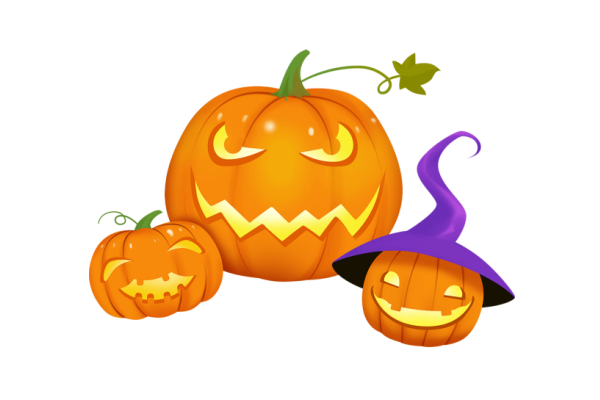
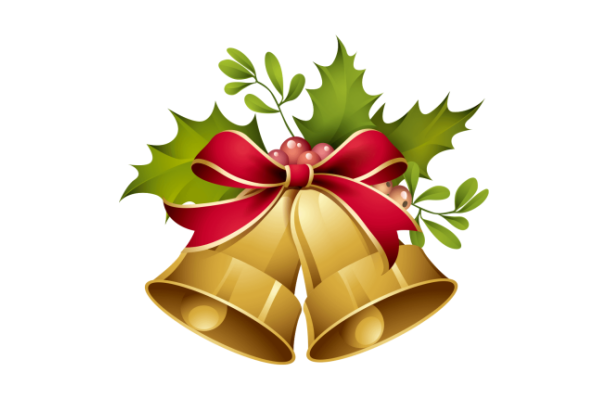
修改12月活動圖

diff --git a/src/views/Loby.vue b/src/views/Loby.vue
@@ -58,6 +58,7 @@
     <!-- 幸運轉盤 -->
 
     <LuckyWheel
+      class="test_wheel"
       v-if="this.fullWidth >= 600"
       ref="myLucky"
       width="700px"
@@ -173,11 +174,11 @@ import ticketImg from '../assets/backGround/ticket3.png';
 import treasureImg from '../assets/backGround/treasure.png';
 import airplane from '../assets/prizes/airplane.png';
 import cryFace from '../assets/prizes/cry.png';
-import prizeOne from '../assets/prizes/500.png';
-import prizeTwo from '../assets/prizes/1000.png';
-import prizeThree from '../assets/prizes/3000.png';
-import prizeFour from '../assets/prizes/10000.png';
-import prizeFive from '../assets/prizes/20000.png';
+import prizeOne from '../assets/prizes/300.png';
+import prizeTwo from '../assets/prizes/600.png';
+import prizeThree from '../assets/prizes/1200.png';
+import prizeFour from '../assets/prizes/3000.png';
+import prizeFive from '../assets/prizes/16000.png';
 import byebye from '../assets/prizes/銘謝惠顧.png';
 
 export default {
@@ -1467,6 +1468,10 @@ export default {
 </style>
 
 <style lang="scss">
+.test_wheel {
+  box-shadow: rgb(84, 157, 234) 0px 30px 90px;
+  border-radius: 60%;
+}
 pre {
   color: white;
   font-size: 18px;

diff --git a/src/App.vue b/src/App.vue
@@ -34,7 +34,7 @@ export default {
 @import 'assets/SideBar/sideBar.css';
 @import './assets/all.scss';
 body {
-  background-image: url('../src//assets/backGround/event_bg2.jpg');
+  background-image: url('../src//assets/backGround/event_bg2.webp');
   // background-size: 50% 100%;
   background-size: cover;
   background-attachment: fixed;
